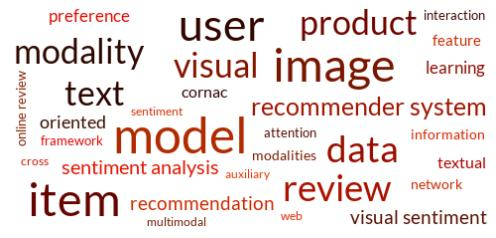
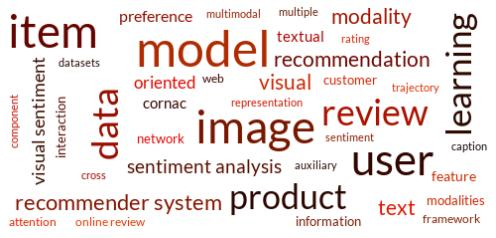
update

diff --git a/index.html b/index.html
@@ -159,7 +159,9 @@
                 <li class="conf">
                     Y. Chen, Q. T. Truong, X. Shen, M. Wang, J. Li, J. Chan, and I. King.
                     <strong>Topological Representation Learning for E-commerce Shopping Behaviors</strong>.
-                    <i>KDD 2023 Workshop on Mining and Learning with Graphs (MLG)</i>.
+                    <i>KDD 2023 Workshop on Mining and Learning with Graphs (MLG)</i>.&nbsp;&nbsp;&nbsp;
+                    [<a target="_blank" href="https://drive.google.com/file/d/1kOPtmuIE_T4MZgaEwaPgXikxOKXwPLMq"
+                        onclick="trackEvent('https://drive.google.com/file/d/1kOPtmuIE_T4MZgaEwaPgXikxOKXwPLMq', 'pdf', 'publications', 'kdd23-mlg');">pdf</a>]
                 </li>
                 <li class="tuto">
                     T. H. Le, Q. T. Truong, A. Salah, and H. W. Lauw.

diff --git a/wc.py b/wc.py
@@ -1,4 +1,7 @@
 text = """
+Topological Representation Learning for E-commerce Shopping Behaviors
+Learning compact representation from customer shopping behaviors is at the core of web-scale E-commerce recommender systems. At Amazon, we put great efforts into learning embedding of customer engagements in order to fuel multiple downstream tasks for better recommendation services. In this work, we define the notion of shopping trajectory that consists of customer interactions at the categorical level of products, then construct an end-to-end model namely C-STAR which is capable of learning rich embedding for representing the variable-length customer trajectory. C-STAR explicitly captures the trajectory distribution similarity and trajectory topological semantics, providing a coarse-to-fine trajectory representation learning paradigm both structurally and semantically. We evaluate the model on Amazon proprietary data as well as four public datasets, where the learned embeddings have shown to be effective for customer-centric tasks including customer segmentation and shopping trajectory completion.
+
 Multi-Modal Recommender Systems: Towards Addressing Sparsity, Comparability, and Explainability
 Web applications frequently feature a recommender system to help users discover items (e.g., products, content articles) of interest. This tutorial focuses on multi-modality, i.e., the use of side information such as text, images, or graphs to augment the preference data.  In particular, we cover several important aspects of multi-modality.  First is how models rely on the auxiliary modality to address the sparsity of preference observations in order to better bridge users and items. These models are typically designed along modality lines, which we cover comprehensively. Second is how to manage comparison and cross-utilization of multi-modal models.  The former is concerned with streamlining the treatment of models that share the same modality. The latter is concerned with using a model initially designed for one modality with another.  Third is how the auxiliary modalities could act as recommendation explanations, as recipients may find textual, visual, or graphical explanations more intuitive. This is a hands-on tutorial, whereby lectures are supplemented with exercises conducted with Cornac (https://cornac.preferred.ai), a comparative framework for multimodal recommender systems.
 
@@ -77,7 +80,8 @@ STOPWORDS.update(
         "several",
         "based",
         "result",
-        "experiments"
+        "experiments",
+        "proposed",
     ]
 )
 
@@ -88,11 +92,11 @@ wc = WordCloud(
     margin=16,
     background_color="white",
     color_func=color_fn,
-    max_words=32,
+    max_words=94,
     stopwords=STOPWORDS,
     min_font_size=10,
     max_font_size=50,
-    random_state=34,
+    random_state=94,
 ).generate(text.strip().lower())
 
 plt.figure()
